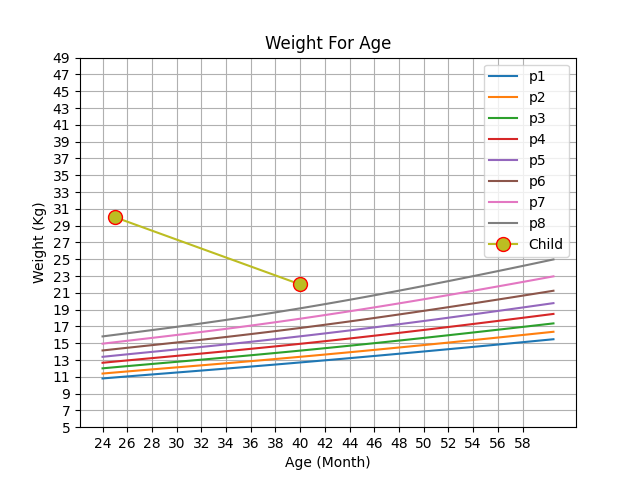
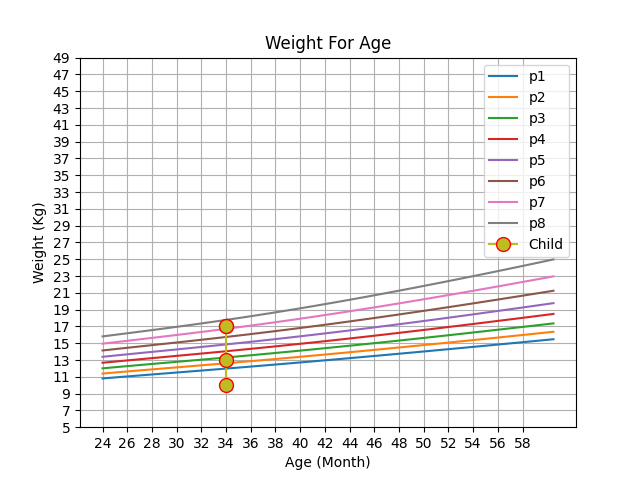
Submit add measurement form using ajax

diff --git a/cactusApp/static/js/app.js b/cactusApp/static/js/app.js
@@ -220,6 +220,82 @@ $('#childForm').submit( event => {
 });
 
 
+$('#measureForm').submit( event => {
+
+    event.preventDefault();
+
+    $(".err_msg_re").text("");
+    $(".err_msg_re").css('visibility', 'hidden');
+
+    const weight = document.querySelector('#weight').value;
+    const height = document.querySelector('#height').value;
+    const head = document.querySelector('#head').value;
+    const measuredate = document.querySelector('#measuredate').value;
+
+
+    if(weight == ""){
+        $(".err_msg_re").text("Please enter the child weight");
+        $(".err_msg_re").css('visibility', 'visible');
+        return false;
+    }
+
+    if(height == ''){
+        $(".err_msg_re").text("Please enter the child height");
+        $(".err_msg_re").css('visibility', 'visible');
+
+        return false;
+    }
+
+    if(measuredate == '' ){
+        $(".err_msg_re").text("Please enter the measuer date");
+        $(".err_msg_re").css('visibility', 'visible');
+
+        return false;
+    }
+    $("#measurebtn").prop('value', 'Processing...');
+    $("#measurebtn").prop('disabled', true);
+    var data ={
+        weight: weight,
+        height: height,
+        head: head,
+        measuredate: measuredate,
+        kid_id: kid_id,
+    }
+    console.log(data);
+    loading()
+
+    $.ajax({
+        type: 'post',
+        url: '/measurement',
+        data: JSON.stringify(data),
+        headers: {
+          'Content-Type':'application/json',
+          'HTTP_X_REQUESTED_WITH':'XMLHttpRequest',
+          'X-Requested-With':'XMLHttpRequest',
+          'X-CSRFToken':getCookie('csrftoken'),
+      },
+        success: function (response) {
+            // unloading()
+            console.log(response);
+            $("#measurebtn").prop('value', 'Continue');
+            $("#measurebtn").prop('disabled', false);
+
+          if ('message' in response) {
+              $(".err_msg_re").text(response['message']);
+              $(".err_msg_re").css('visibility', 'visible');
+          } else {
+              window.location = "/charts/"+ kid_id;
+          }
+
+      },
+       error: function (response) {
+         console.log(response);
+     }
+      });
+
+});
+
+
 
 
 $('#bmi-img').hide()

diff --git a/cactusApp/templates/cactusApp/child_info.html b/cactusApp/templates/cactusApp/child_info.html
@@ -12,13 +12,14 @@
         <div class="card">
               <div class="card-container">
                   <h4 class="my-2">Add Measurement</h4>
-                  <form action="{% url 'kid' kid_id %}" method="post" class="form-group">
-                      {% csrf_token %}
-                      <input class="form-control my-2" name="weight" type="number" step="0.01" placeholder="Weight"/>
-                      <input class="form-control my-2" name="height" type="number" step="0.01" placeholder="Height"/>
-                      <input class="form-control my-2" name="head" type="number" step="0.01" placeholder="Head Circumference"/>
-                      <input class="form-control" type="date" name="measure-date">
-                      <input class="btn btn-success my-1 login-btn" type="submit" value="Continue"/>
+                  <p class="err_msg_re"></p>
+                  <form id="measureForm"action="{% url 'kid' kid_id %}" method="post" class="form-group">
+
+                      <input class="form-control my-2" id="weight" name="weight" type="number" step="0.01" placeholder="Weight (KG)"/>
+                      <input class="form-control my-2" id="height" name="height" type="number" step="0.01" placeholder="Height (CM)"/>
+                      <input class="form-control my-2"id="head" name="head" type="number" step="0.01" placeholder="Head Circumference"/>
+                      <input class="form-control" id="measuredate" type="date" name="measure-date">
+                      <input class="btn btn-success my-1 login-btn" id="measurebtn" type="submit" value="Continue"/>
                   </form>
                   <hr>
                    <input id="cancel" class="btn btn-primary my-1 login-btn" type="button" value="Cancel"/>
@@ -52,6 +53,10 @@
 <a href="#" class="btn btn-success" id="add">Add Measurement</a>
 <a href="#" id="delete_child" class="btn btn-danger">Delete Child Data</a>
 
+</div>
+
+<div class="loader">
+    <img src="{% static 'img/spin.gif' %}">
 </div>
 
 <script type="text/javascript">

diff --git a/cactusApp/views.py b/cactusApp/views.py
@@ -121,19 +121,40 @@ def kid_view(request, kid_id):
     if kid_measure:
         measure_found = 1
 
+
+    context = {
+        'kid_id': kid_id,
+        'measure_found': measure_found,
+        'measurements': kid_measure,
+    }
+    # print(list(kid_measure))
+
+    return render(request, 'cactusApp/child_info.html', context)
+
+
+def measurement(request):
     if request.method == "POST":
-        weight = request.POST["weight"]
-        height = request.POST["height"]
-        head_circumference = request.POST["head"]
-        date = request.POST["measure-date"]
+        data = json.loads(request.body)
+        print('////////////')
+        print(data)
+
+        weight = data.get("weight")
+        height = data.get("height")
+        head_circumference = data.get("head")
+        date = data.get("measuredate")
+        kid_id = data.get("kid_id")
+
+        kids = Child.objects.get(pk=kid_id)
 
         bmi = float(weight) / ((float(height) / 100.0))**2
 
-        if bmi > 40:
-            return JsonResponse({"error": "BMI value is too high."})
+        print(bmi)
 
-        if weight > 40:
-            return JsonResponse({"error": "Weight value is too high."})
+        if bmi > 40:
+            return JsonResponse({"message": "BMI value is too high."})
+
+        if float(weight) > 40.0:
+            return JsonResponse({"message": "Weight value is too high."})
 
         print(kids.birthday)
         c = kids.birthday
@@ -153,17 +174,9 @@ def kid_view(request, kid_id):
                                   child=kids, age=(round(age/30.4374, 1)), bmi=round(bmi, 2))
         measurement.save()
 
-        return redirect('charts', kid_id=kid_id)
+        return JsonResponse({"status": "ok"})
 
-    context = {
-        'kid_id': kid_id,
-        'measure_found': measure_found,
-        'measurements': kid_measure,
-    }
-    # print(list(kid_measure))
-
-    return render(request, 'cactusApp/child_info.html', context)
-
+        # return redirect('charts', kid_id=kid_id)
 
 
 def chart_weight(request, kid_id):

diff --git a/cactusApp/urls.py b/cactusApp/urls.py
@@ -10,6 +10,7 @@ urlpatterns = [
     path("logout", views.logout_view, name='logout'),
     path("kids", views.kids, name='kids'),
     path("kid/<int:kid_id>", views.kid_view, name='kid'),
+    path("measurement", views.measurement, name='measurement'),
     path("charts/<int:kid_id>", views.chart_weight, name='charts'),
     path("delete", views.delete_child, name='delete'),
 
